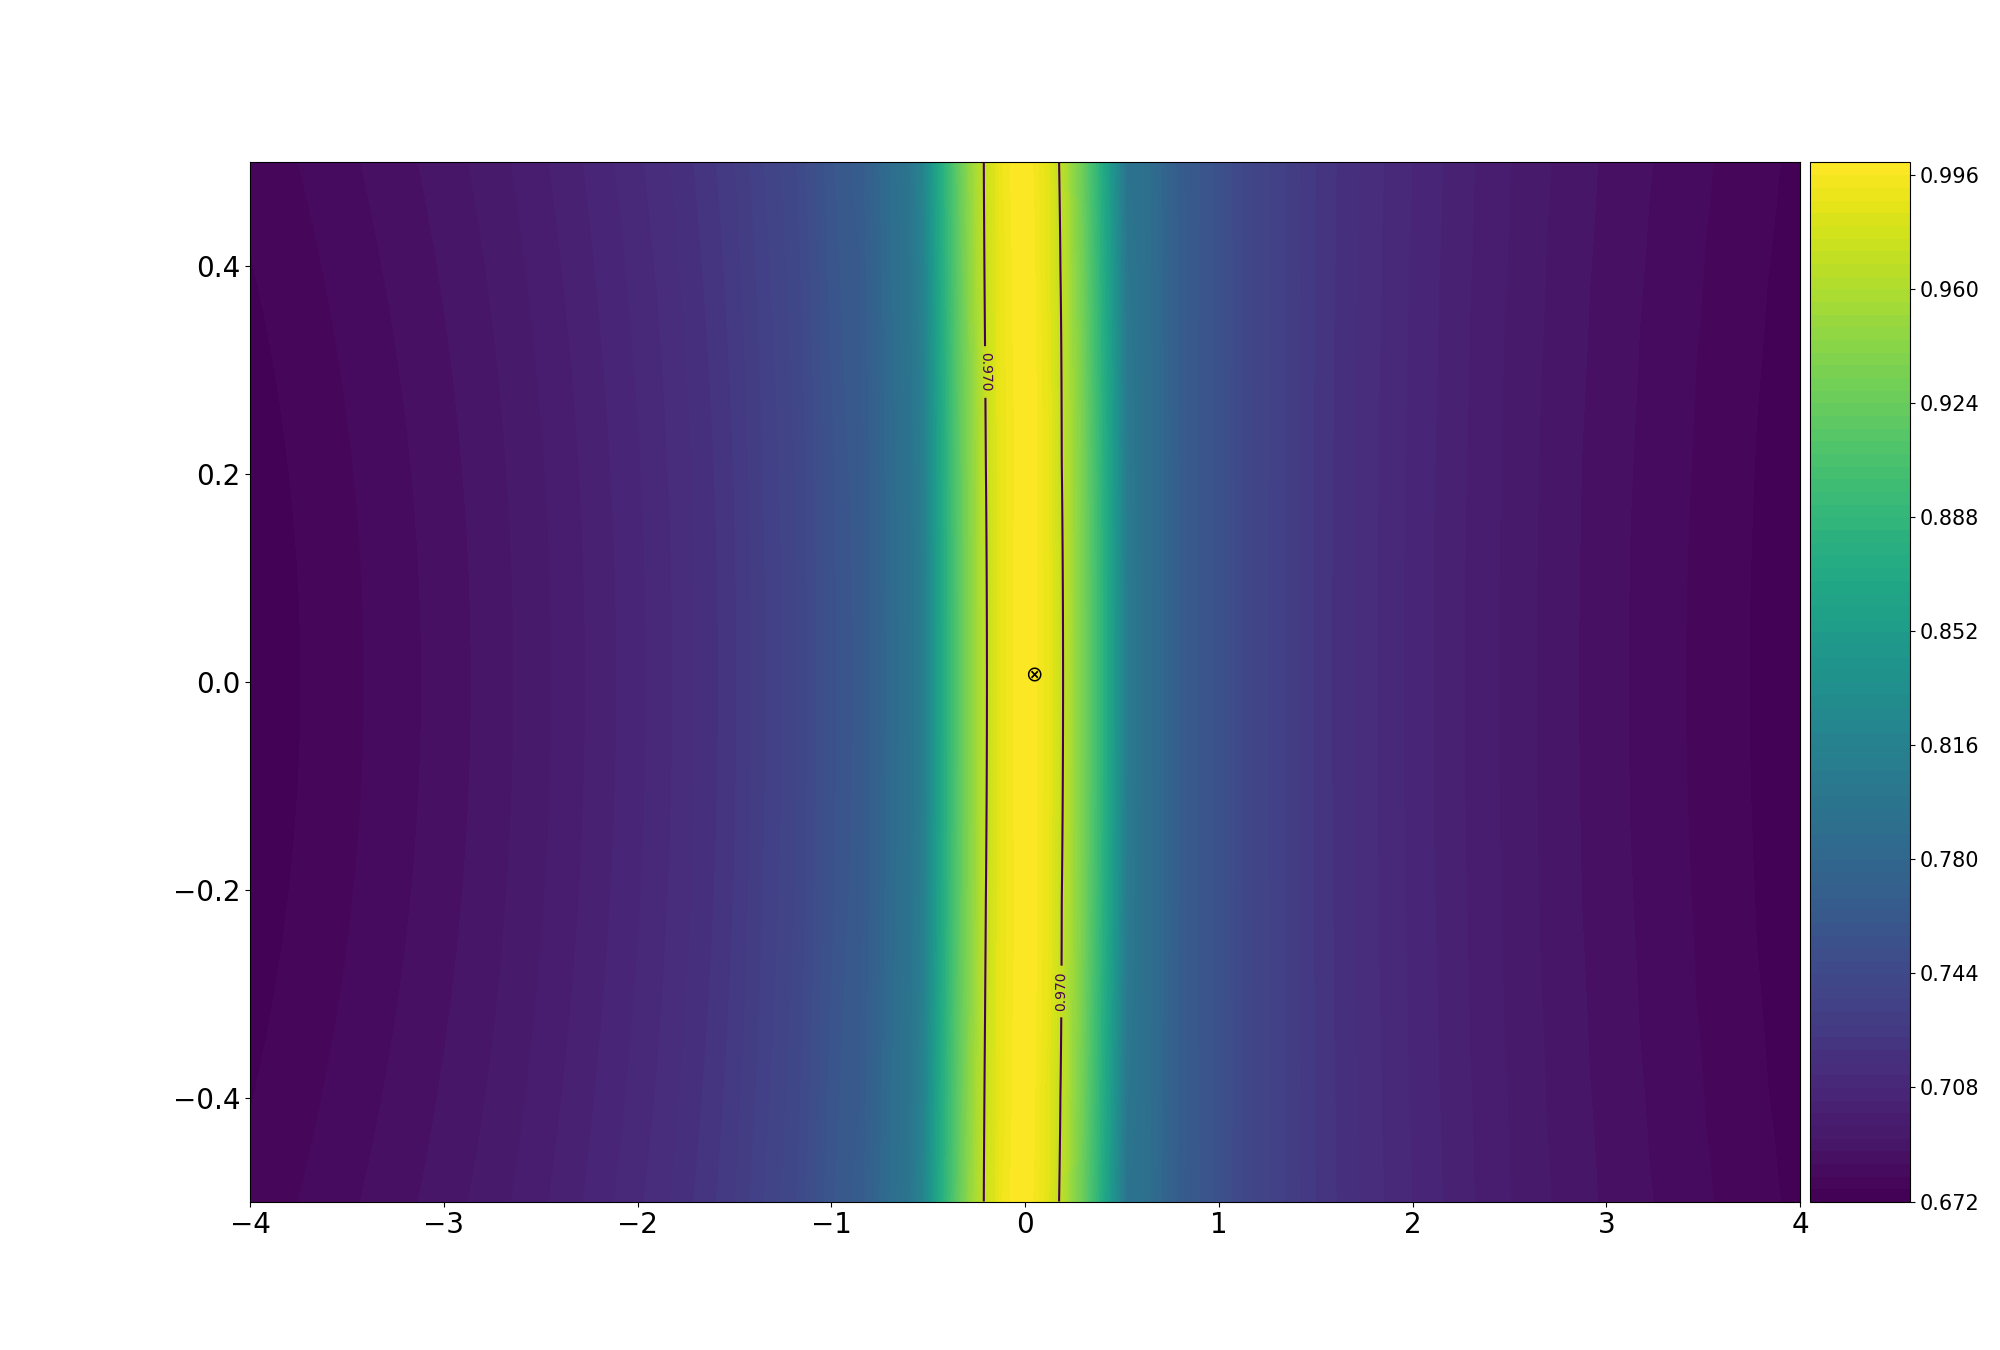
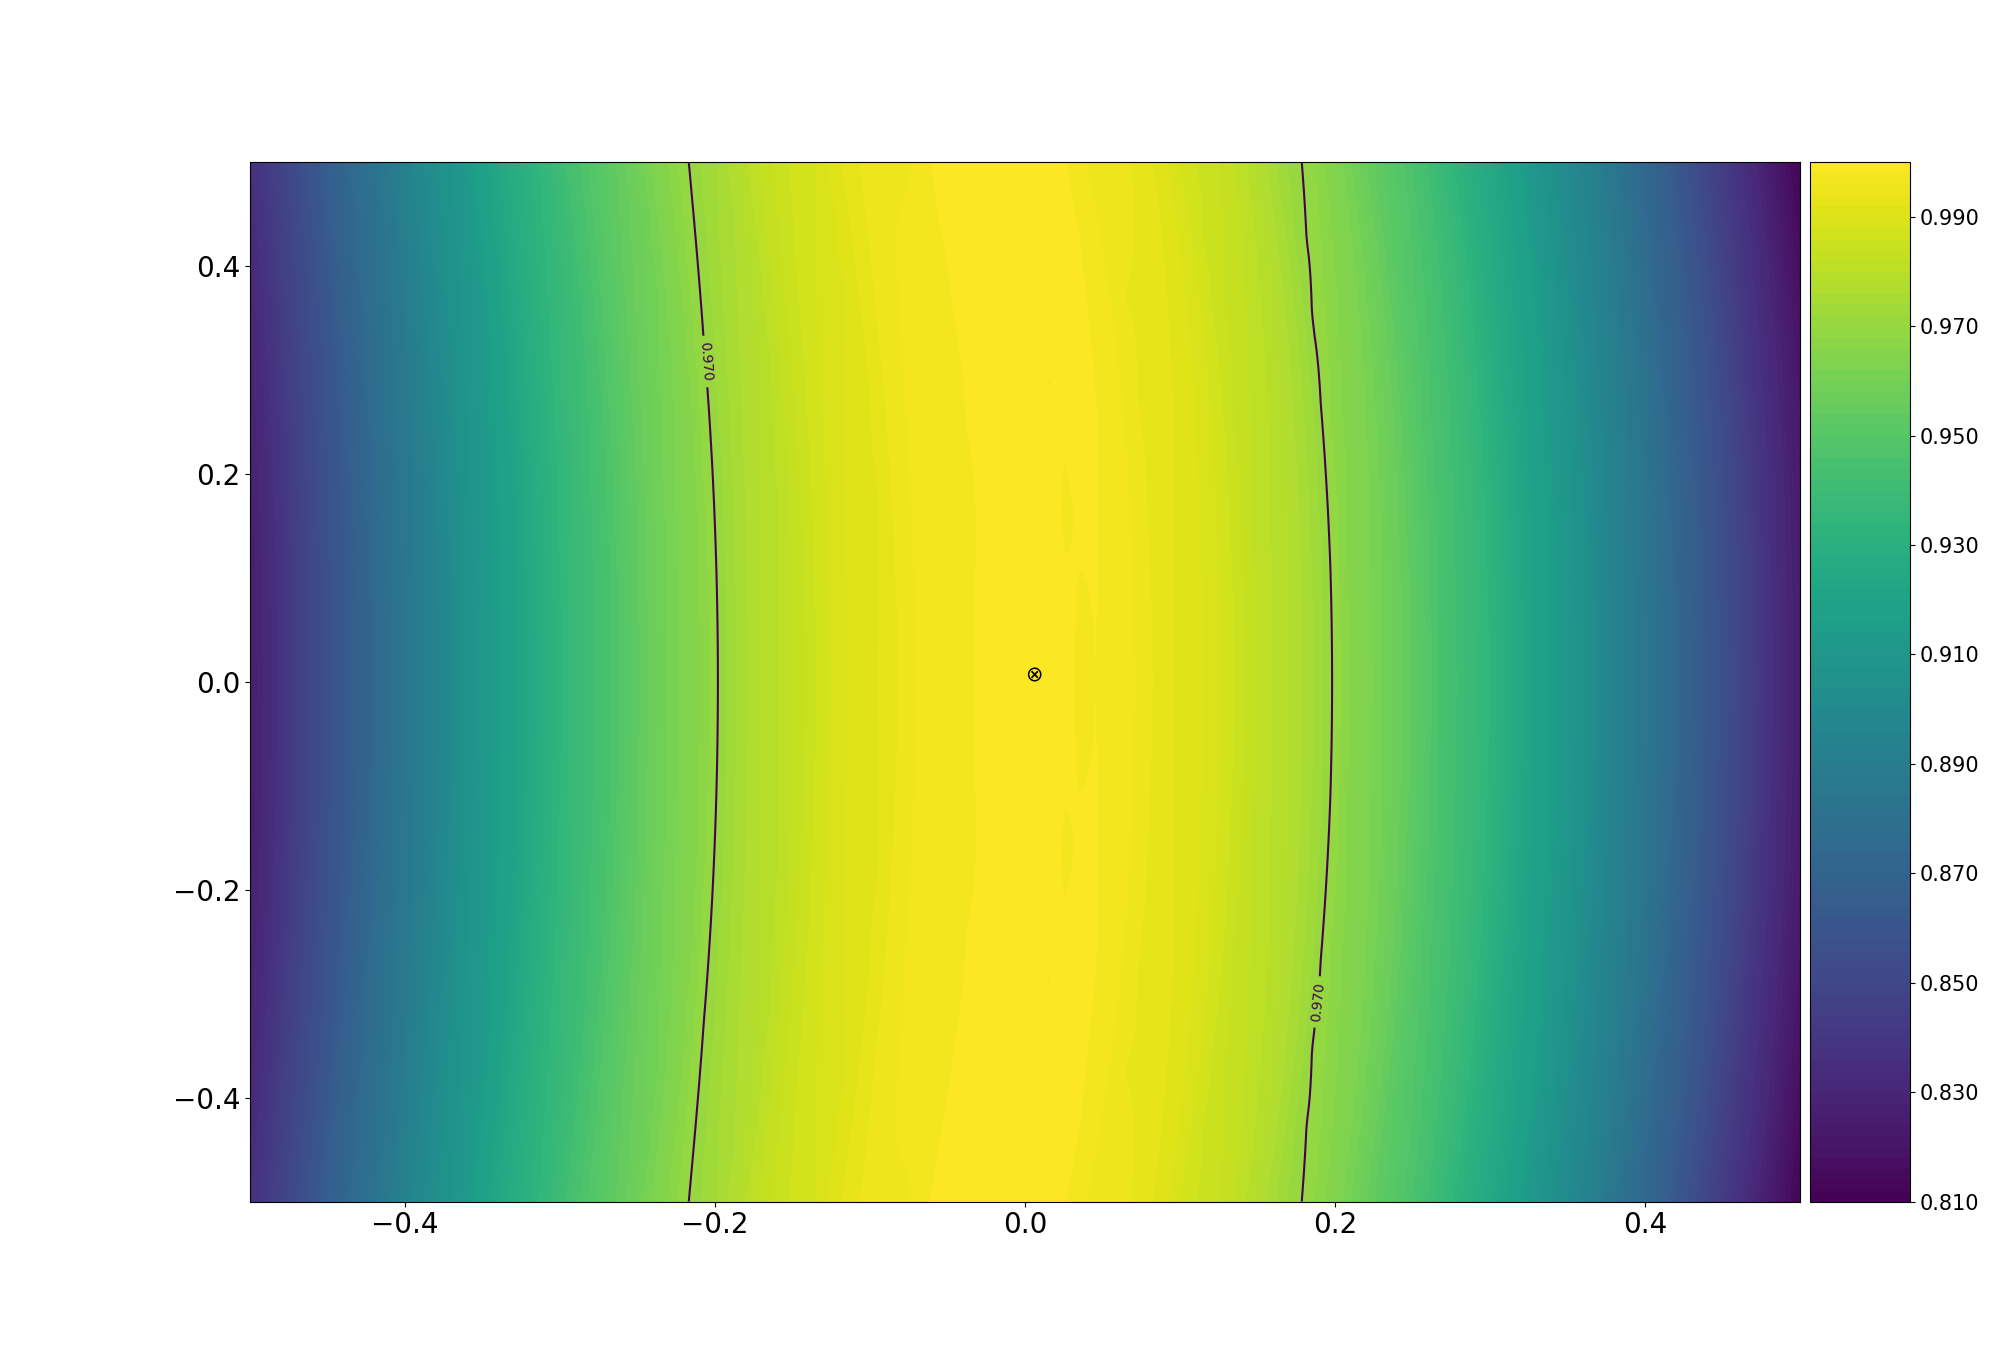
More fixing the colorbar font

diff --git a/nonGR_m1_match.py b/nonGR_m1_match.py
@@ -96,7 +96,7 @@ nGR = ['dalpha2','dalpha3','dalpha4','dbeta2','dbeta3'] # hashed out to test one
 
 #nGR = ['dbeta3']
 
-ngrparam = np.linspace(-4, 4, 100) # range of nGR params
+ngrparam = np.linspace(-0.5, 0.5, 100) # range of nGR params
 #mass1 = np.linspace(15, 45, 100) # Range of masses
 
 spin1 = np.linspace(-0.5, 0.5, 100)
@@ -160,7 +160,7 @@ for nonGR in nGR:
 	#ax.set_title('Match plot of varying %s and $M_1$'%nonGR, fontsize = 20)
 	ax1.annotate('$\otimes$', (nongr_0, spin_0), fontsize = 15)
 	colorbar_ax = fig1.add_axes([0.905, 0.11, 0.05, 0.77])
-	cbar = fig1.colorbar(cont, cax = colorbar_ax)
+	cbar = fig1.colorbar(cont, cax = colorbar_ax, format = '%.3f')
 	cbar.ax.tick_params(labelsize = 15)
 	con = ax1.contour(ngrparam, spin1, M, 1 ,levels=levels)
 	'''
